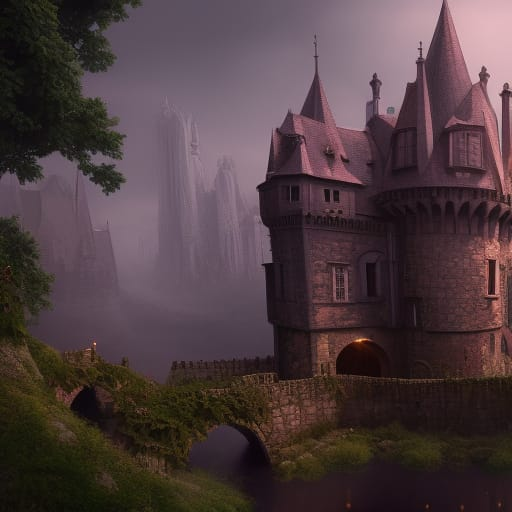
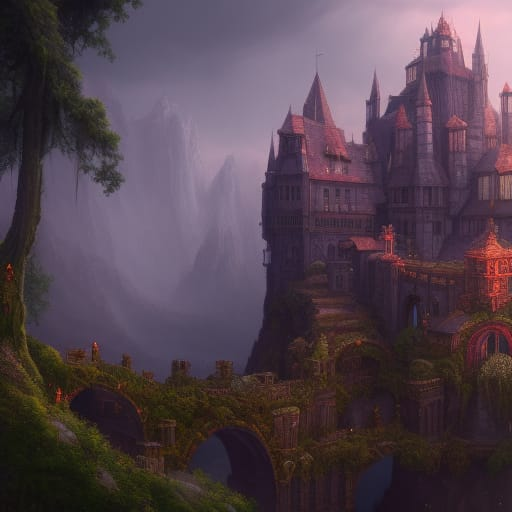
Dexter Zhang added more story to the game

diff --git a/dextergame.js b/dextergame.js
@@ -12,6 +12,22 @@ class Church extends AdventureScene {
         this.bg.setDisplaySize(windowWidth, widnowHeight);
         
 
+        let pope = this.add.text(this.w * 0.15, this.h * 0.55, "🤵")
+            .setFontSize(this.s * 10)
+            .setInteractive()
+            .on('pointerover', () => this.showMessage("Hello traveler I am John the pope! Welcome to the church"))
+            .on('pointerdown', () => {
+                this.showMessage("Those prayer beads helps get rid of bad spirits.");
+                this.tweens.add({
+                    targets: pope,
+                    y: '+=' + this.s,
+                    repeat: 2,
+                    yoyo: true,
+                    ease: 'Sine.inOut',
+                    duration: 100
+                });
+            })
+
         let prayerBeads = this.add.text(this.w * 0.5, this.w * 0.1, "📿 Prayer Beads")
             .setFontSize(this.s * 2)
             .setInteractive()
@@ -48,6 +64,22 @@ class Market extends AdventureScene {
         this.bg = this.add.image(windowWidth / 2, widnowHeight / 2, 'market');
         this.bg.setDisplaySize(windowWidth, widnowHeight);
 
+        let merchant = this.add.text(this.w * 0.15, this.h * 0.8, "🧕")
+            .setFontSize(this.s * 10)
+            .setInteractive()
+            .on('pointerover', () => this.showMessage("Looking for the princess hmmm"))
+            .on('pointerdown', () => {
+                this.showMessage("I saw the princess running towards the village 2 days ago.");
+                this.tweens.add({
+                    targets: merchant,
+                    y: '+=' + this.s,
+                    repeat: 2,
+                    yoyo: true,
+                    ease: 'Sine.inOut',
+                    duration: 100
+                });
+            })
+
         let bob = this.createBob();
         this.addEast(bob, 'castle');
     }
@@ -66,6 +98,22 @@ class Village extends AdventureScene {
         let widnowHeight = this.h;
         this.bg = this.add.image(windowWidth / 2, widnowHeight / 2, 'village');
         this.bg.setDisplaySize(windowWidth, widnowHeight);
+
+        let villager = this.add.text(this.w * 0.15, this.h * 0.8, "🧖")
+            .setFontSize(this.s * 10)
+            .setInteractive()
+            .on('pointerover', () => this.showMessage("Your looking for the princess?"))
+            .on('pointerdown', () => {
+                this.showMessage("I didn't see the princess pass by but King Joshua was running towards the Dark Forest 2 days ago...");
+                this.tweens.add({
+                    targets: villager,
+                    y: '+=' + this.s,
+                    repeat: 2,
+                    yoyo: true,
+                    ease: 'Sine.inOut',
+                    duration: 100
+                });
+            })
 
         let bob = this.createBob();
         this.addEast(bob, 'darkForest');       
@@ -87,11 +135,11 @@ class DarkForest extends AdventureScene {
         this.bg = this.add.image(windowWidth / 2, widnowHeight / 2, 'darkForest');
         this.bg.setDisplaySize(windowWidth, widnowHeight);
 
-        let castleKey = this.add.text(this.w * 0.5, this.w * 0.1, "🔑 castleKey")
+        let castleKey = this.add.text(this.w * 0.5, this.w * 0.1, "🔑 key")
             .setFontSize(this.s * 2)
             .setInteractive()
             .on('pointerover', () => {
-                this.showMessage("It's a nice key.")
+                this.showMessage("The castle key! The king must have dropped it here!")
             })
             .on('pointerdown', () => {
                 this.showMessage("You pick up the key.");
@@ -123,6 +171,31 @@ class Castle extends AdventureScene {
         this.bg = this.add.image(windowWidth / 2, widnowHeight / 2, 'castle');
         this.bg.setDisplaySize(windowWidth, widnowHeight);
         
+        let king = this.add.text(this.w * 0.45, this.h * 0.25, "🤴")
+            .setFontSize(this.s * 10)
+            .setInteractive()
+            .on('pointerover', () => this.showMessage("Hello traveler, I am King Joshua of this lovely kingdom! Welcome."))
+            .on('pointerdown', () => {
+                
+                if(this.hasItem("castleKey")){
+                    this.showMessage("Oh you've found my keys Thank You! Lets go inside it's chilly outside!");
+                }else{
+                    this.showMessage("My daughter princess Sophia has gone missing Please help me find her!");
+                    this.time.delayedCall(3500, ()=> this.showMessage("I've been searching for her everywhere!"));
+                    this.time.delayedCall(5500, ()=> this.showMessage("Oh no I can't find my castle keys..."));
+                    this.time.delayedCall(7000, ()=> this.showMessage("Anyways the last time I saw my daughter was 3 days ago... "));
+                    this.time.delayedCall(10000, ()=> this.showMessage("she was wandering around in the Market."));
+                }
+                this.tweens.add({
+                    targets: king,
+                    y: '+=' + this.s,
+                    repeat: 2,
+                    yoyo: true,
+                    ease: 'Sine.inOut',
+                    duration: 100
+                });
+            })
+
         let door = this.add.text(this.w * 0.1, this.w * 0.15, "🚪 Locked Castle Door")
             .setFontSize(this.s * 2)
             .setInteractive()
@@ -131,7 +204,7 @@ class Castle extends AdventureScene {
                     this.showMessage("You've got the key for this door.");
 
                 } else {
-                    this.showMessage("It's locked.");
+                    this.showMessage("What kind of King locks himself out of his castle?");
                     // this.setTint(0xff00ff, 0xffff00, 0x0000ff, 0xff0000);
 
                 }
@@ -140,7 +213,7 @@ class Castle extends AdventureScene {
                 if (this.hasItem("castleKey")) {
                     this.showMessage("*clang* ");
                     door.setText("🚪 unlocked door");
-                    this.gotoScene('dungeon');
+                    this.gotoScene('castleInside');
                 }
             })
         
@@ -187,7 +260,7 @@ class Dungeon extends AdventureScene {
         this.bg = this.add.image(windowWidth / 2, widnowHeight / 2, 'dungeon');
         this.bg.setDisplaySize(windowWidth, widnowHeight);
 
-        let jailKey = this.add.text(this.w * 0.5, this.w * 0.1, "🔑 jail key")
+        let jailKey = this.add.text(this.w * 0.5, this.w * 0.1, "🔑 key")
             .setFontSize(this.s * 2)
             .setInteractive()
             .on('pointerover', () => {
@@ -233,6 +306,73 @@ class Dungeon extends AdventureScene {
         
         let door2 = this.createDoor(0.25);
         let door3 = this.createDoor(0.3);
+
+    }
+}
+
+class CastleInside extends AdventureScene {
+    constructor() {
+        super("castleInside", "Inside the Castle");
+    }
+    preload(){
+        this.load.image("castleInside", "assets/medival castleInside.jpg")
+    }
+
+    onEnter() {
+        let windowWidth = this.w*0.75;
+        let widnowHeight = this.h;
+        this.bg = this.add.image(windowWidth / 2, widnowHeight / 2, 'castleInside');
+        this.bg.setDisplaySize(windowWidth, widnowHeight);
+
+        let king = this.add.text(this.w * 0.45, this.h * 0.25, "🤴")
+            .setFontSize(this.s * 10)
+            .setInteractive()
+            .on('pointerover', () => this.showMessage("Where could my daughter have gone?"))
+            .on('pointerdown', () => {
+                
+                if(this.hasItem("prayerBeads")){
+                    this.showMessage("Oh I feel at ease with you here!");
+                }else{
+                    this.showMessage("I can sense evil spirits here!");
+                }
+                this.tweens.add({
+                    targets: king,
+                    y: '+=' + this.s,
+                    repeat: 2,
+                    yoyo: true,
+                    ease: 'Sine.inOut',
+                    duration: 100
+                });
+            })
+
+        let bob = this.createBob();
+        let south = this.add.text(this.w * 0.35, this.w * 0.5, "⬇")
+            .setFontSize(this.s * 5)
+            .setInteractive()
+            .on('pointerover', () => this.showMessage("Go outside"))
+            .on('pointerdown', () => {
+                this.showMessage("Exiting Castle");
+                this.tweens.add({
+                    targets: bob,
+                    y: '+=' + this.w*0.2,
+                    duration: 1000,
+                    onComplete: () => bob.destroy()
+                    
+                });
+                this.gotoScene('castle');
+                console.log("exit castle");
+            });
+
+        let door1 = this.add.text(this.w * 0.1, this.w * 0.2, "🚪 dungeon")
+            .setFontSize(this.s * 2)
+            .setInteractive()
+            .on('pointerover', () => {
+                this.showMessage("This door leads to the Dungeon...");
+            })
+            .on('pointerdown', () => {
+                this.showMessage("Heading to the Dungeon...");
+                this.gotoScene("dungeon");
+            })
 
     }
 }
@@ -306,7 +446,7 @@ const game = new Phaser.Game({
         width: 1920,
         height: 1080
     },
-    scene: [Intro, House, Castle, Church, Market, Village, DarkForest, Dungeon, GoodEnding, BadEnding, Outro],
+    scene: [Intro, House, Castle, CastleInside, Church, Market, Village, DarkForest, Dungeon, GoodEnding, BadEnding, Outro],
     title: "Adventure Game",
 });
 
